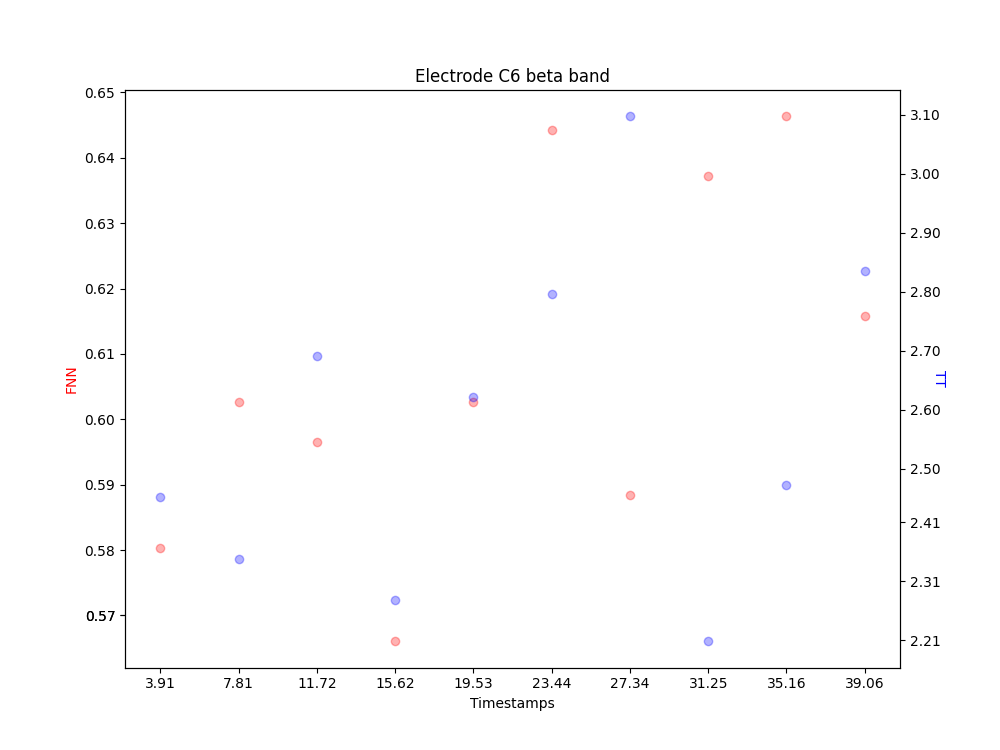
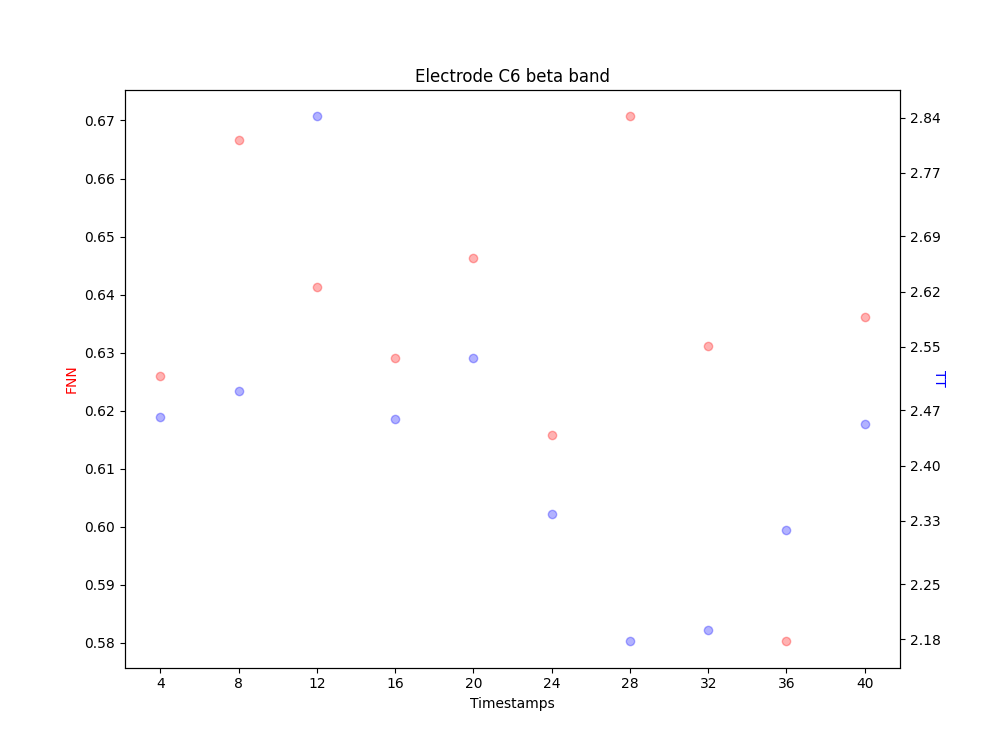
finished time domain and rr plots

diff --git a/RR-ICNT.py b/RR-ICNT.py
@@ -51,8 +51,8 @@ if __name__ == '__main__':
 
     filename = 'dane.pkl'
     df=pickle.load(open(filename,'rb'))
-
-    srate = 256
+    dane = df
+    srate = 250
     len(df)
     time = np.arange(len(df[0]))
     npnts = len(time)
@@ -61,18 +61,18 @@ if __name__ == '__main__':
     #plt.show()
 
     ################################   matlab unicorn data
-    f = h5py.File('Data_fl.mat')
-    df = np.array(f['y']).T
-    dane = df[1:] #FZ
-    dane.shape
-    ndane = np.zeros((8,10000))
-    ndane.shape
-    for i in range(len(dane)):
-        ndane[i] = dane[i][5000:15000]
-    dane = ndane
+    # f = h5py.File('Data_fl.mat')
+    # df = np.array(f['y']).T
+    # dane = df[1:] #FZ
+    # dane.shape
+    # ndane = np.zeros((8,10000))
+    # ndane.shape
+    # for i in range(len(dane)):
+    #     ndane[i] = dane[i][5000:15000]
+    # dane = ndane
 
 
-    elnames = ['F3','F4','FCz','C3','C4','Pz','O1','O2']  # C5, C6, Cz, Fz
+    elnames = ['FZ','F4','FCz','C3','C4','Pz','O1','O2']  # C5, C6, Cz, Fz
 
     timedel = 8
 
@@ -85,7 +85,7 @@ if __name__ == '__main__':
     fnn_dic = {}
     tt_dic = {}
     timestamps = []
-    el_idx = 6
+    el_idx = 0
     subject = 'IB2018A0Z63922_rso'
     subject = 'al'
 

diff --git a/plotEEG.py b/plotEEG.py
@@ -41,3 +41,18 @@ if __name__ == '__main__':
         data2plot = notch(51,np.array(df[i][in_r:out_r]),srate)
         plotSignal('electrode'+str(i),np.array(data2plot))
         plt.savefig('ele_'+str(i)+'.png')
+
+
+def plotingtest():
+    img = np.random.randint(-100, 100, (10, 10))
+    fig = plt.figure(figsize=(8, 8))
+    grid = plt.GridSpec(6, 6, hspace=0.6, wspace=0.6)
+    main_ax = fig.add_subplot(grid[:-1, 1:])
+
+    mm = main_ax.imshow(img)
+    cbar_ax = fig.add_axes([0.007, 0.2, 0.03, 0.7])
+    fig.colorbar(mm, cax=cbar_ax)
+    y_hist = fig.add_subplot(grid[:-1, 0], xticklabels=[], sharey=main_ax)
+    x_hist = fig.add_subplot(grid[-1, 1:], yticklabels=[], sharex=main_ax)
+
+    plt.show()
